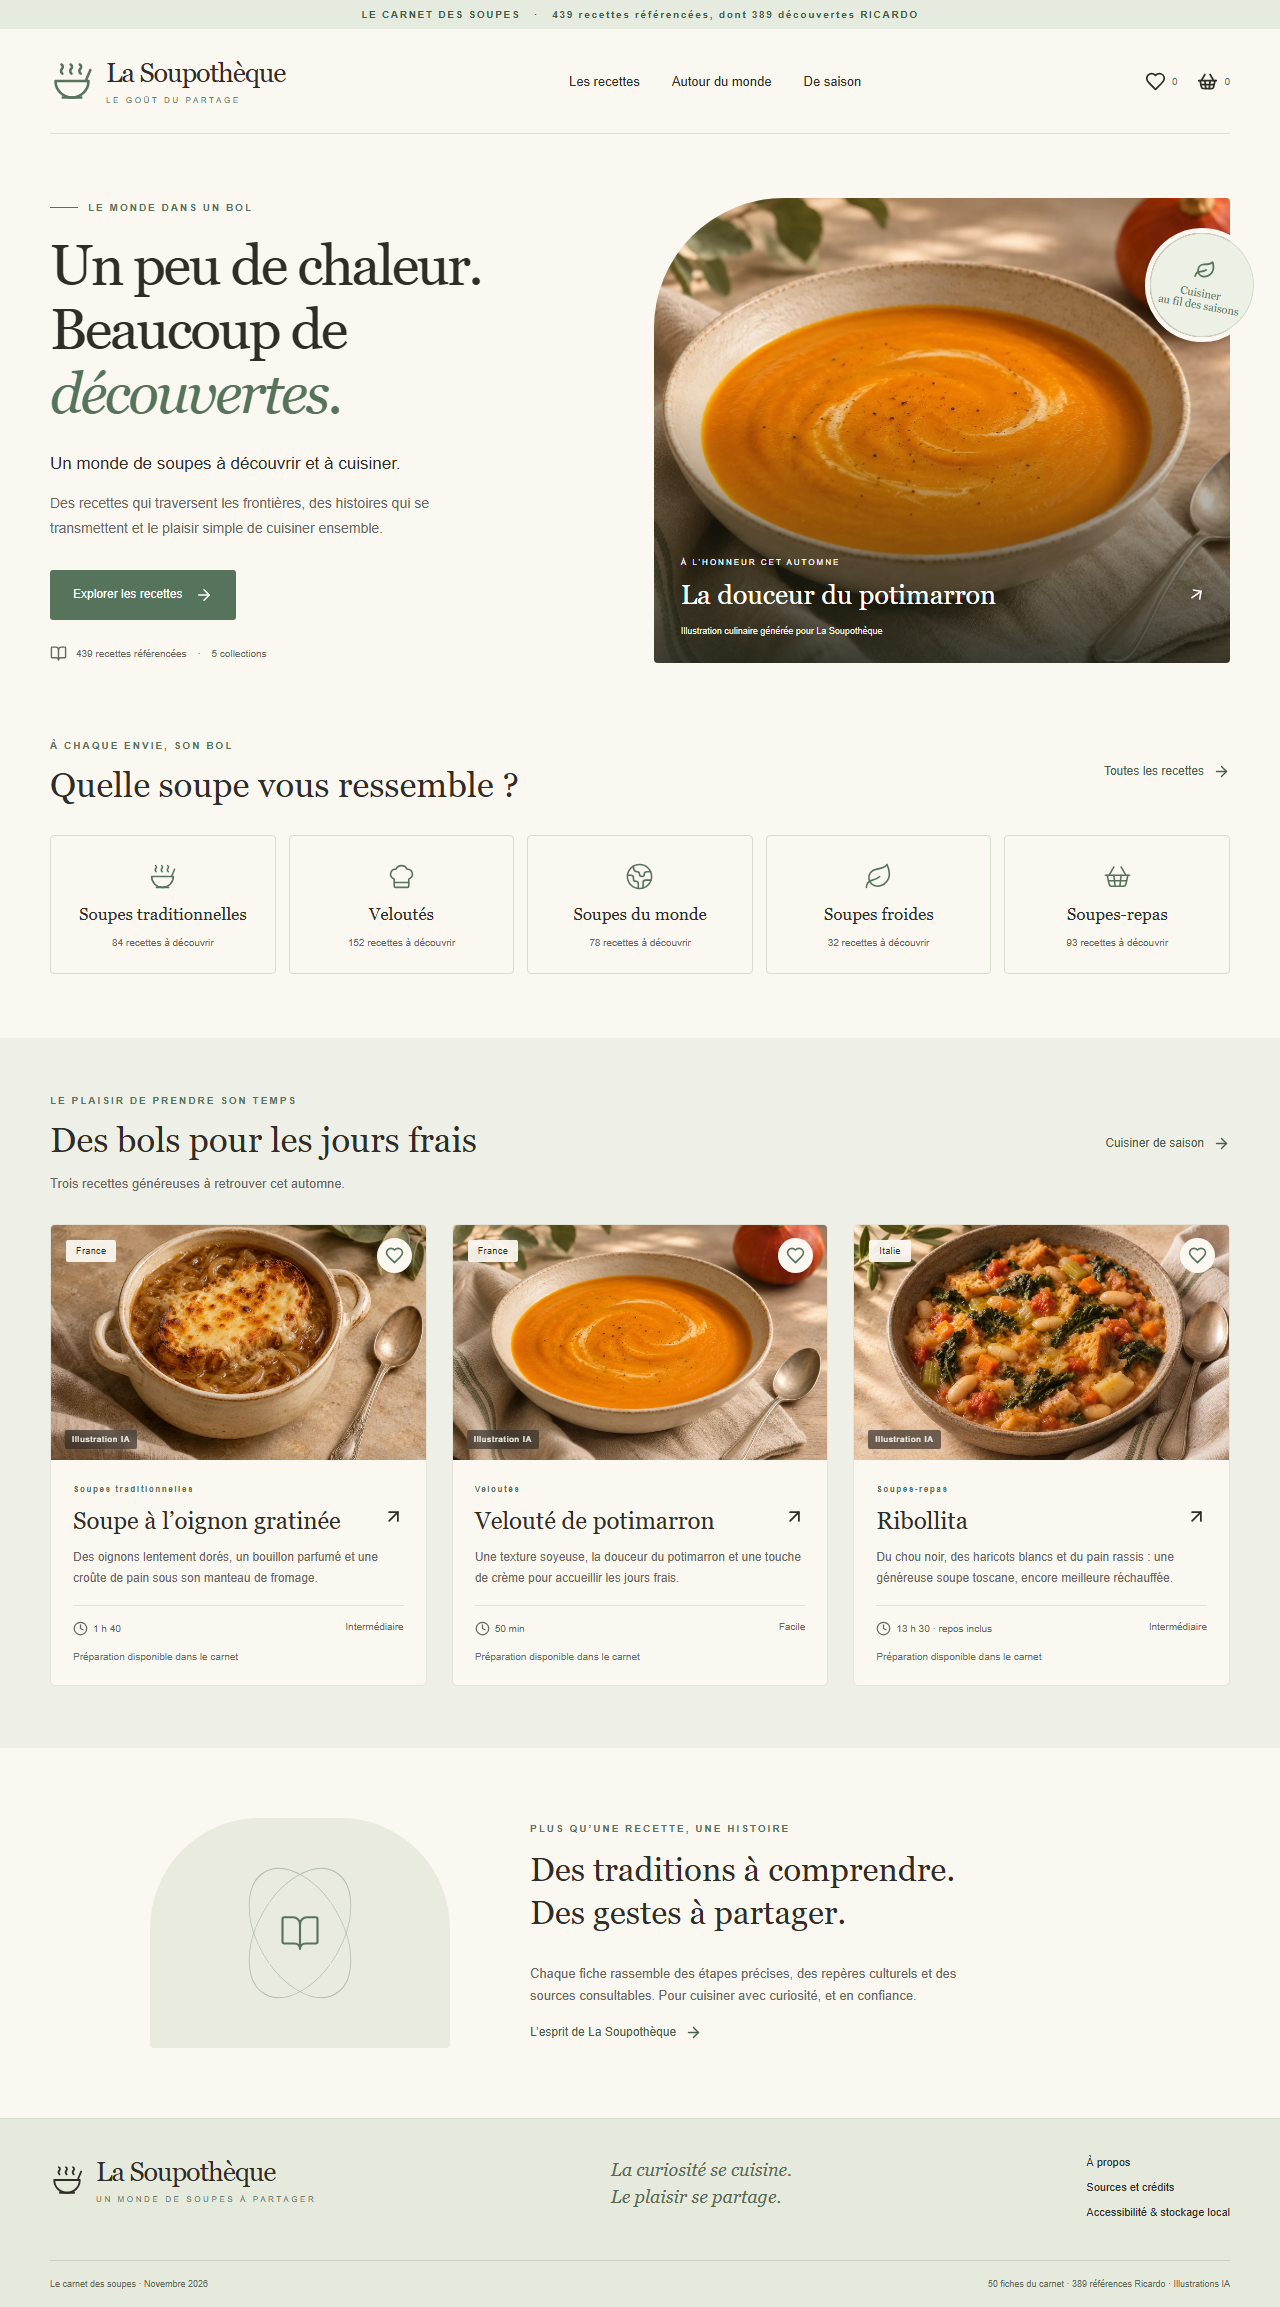
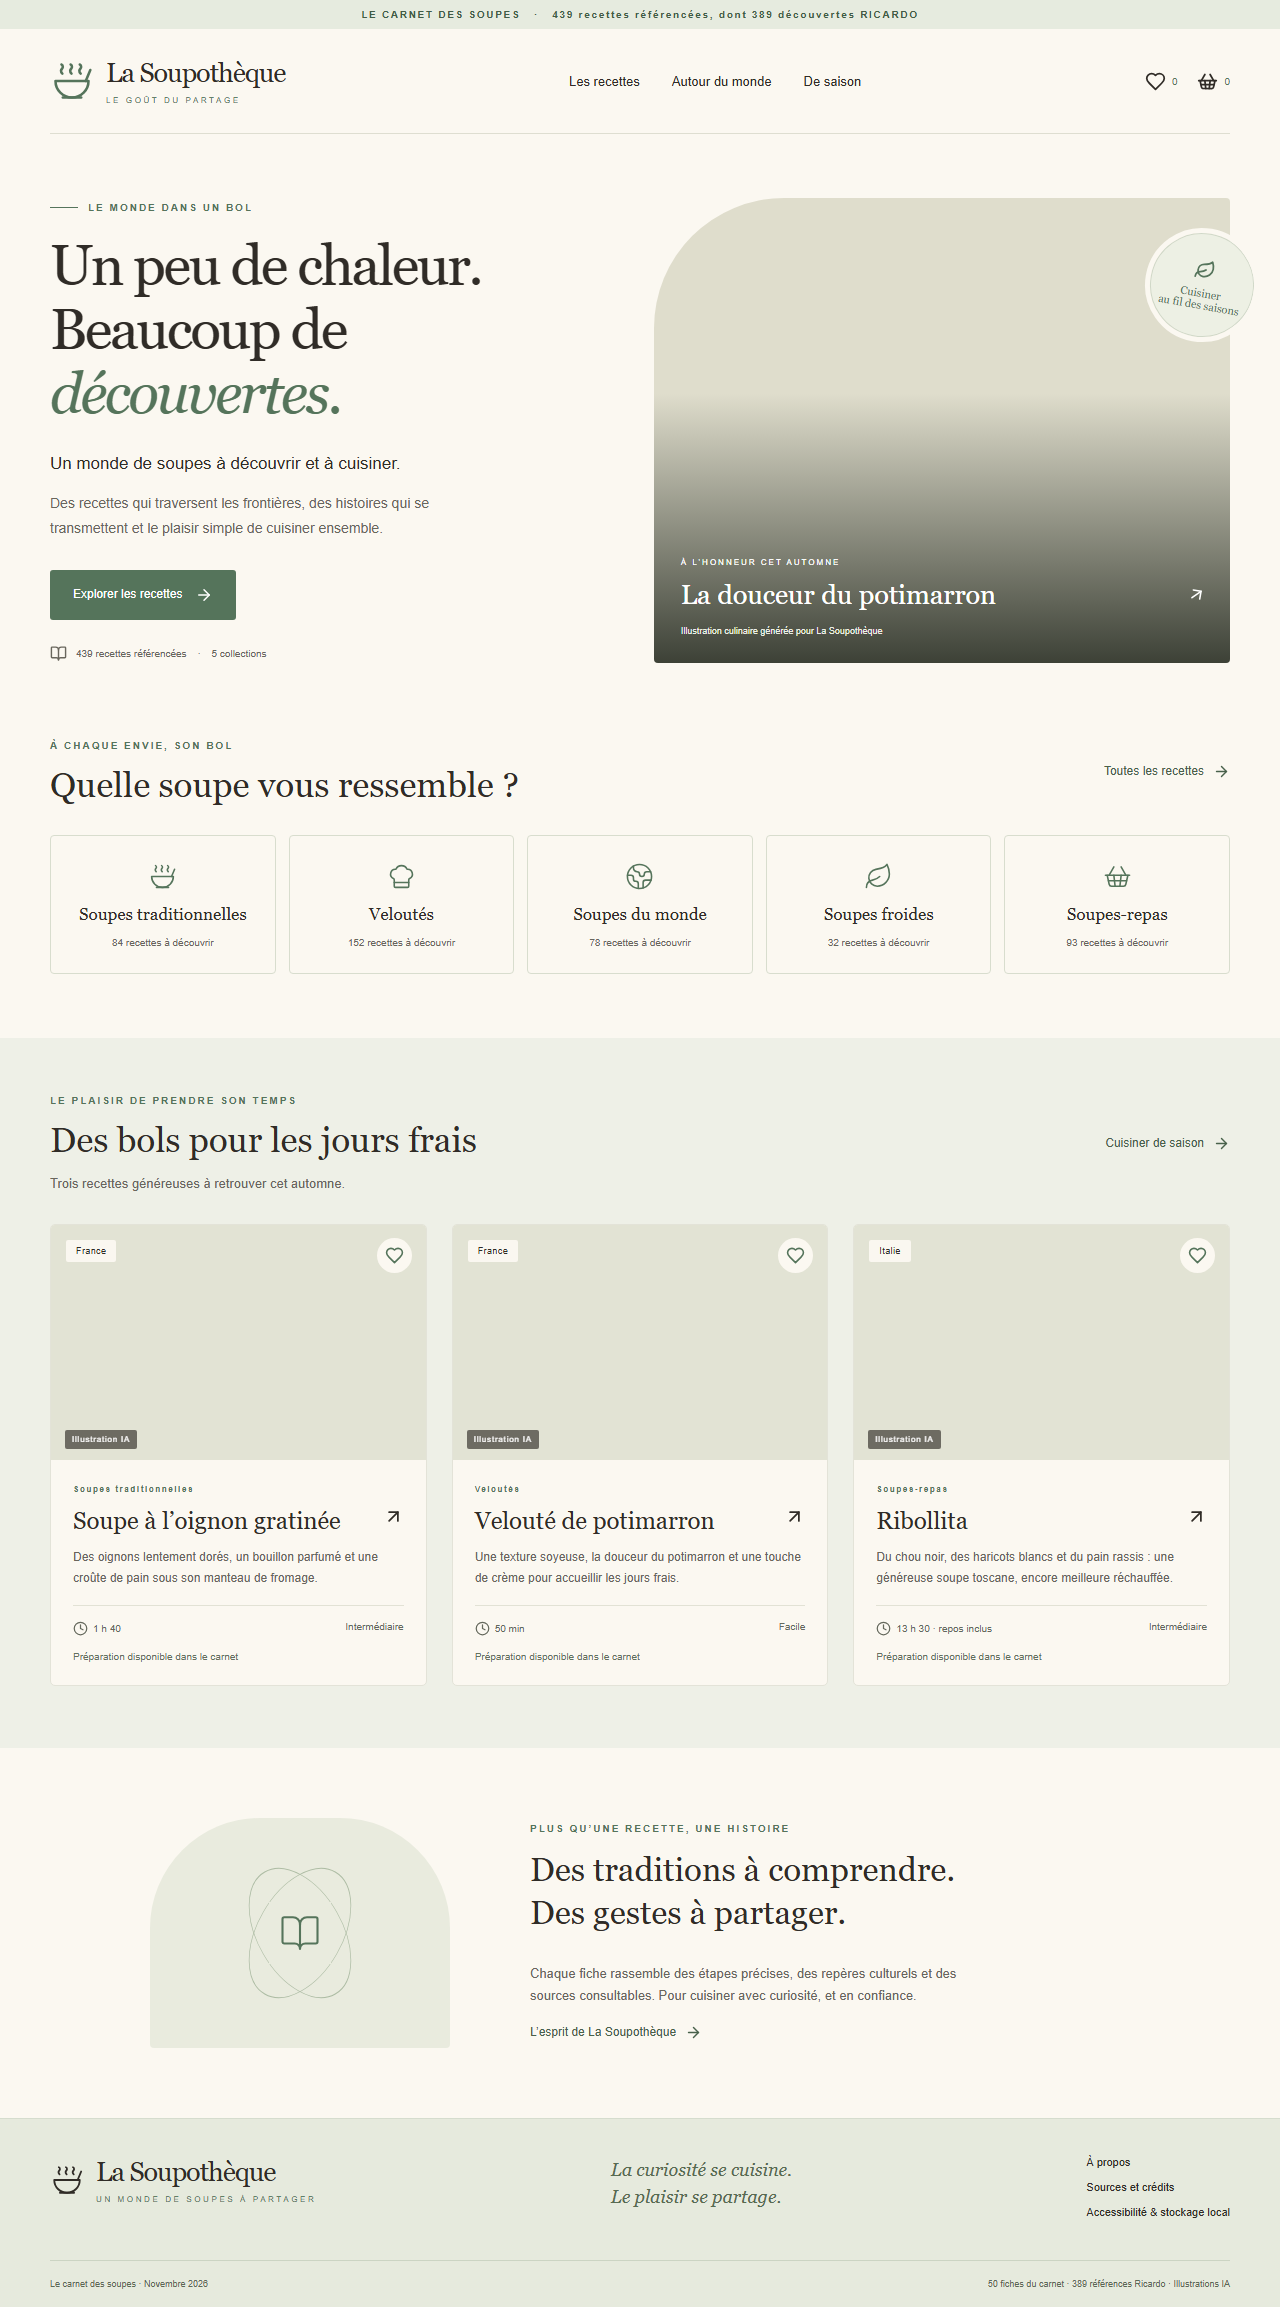
Document verified GitHub Pages publication and live browser checks

Changed region(s): [[0.0312, 0.5306, 0.9688, 0.6554], [0.5, 0.0624, 0.9688, 0.3121]]

diff --git a/docs/rapport-tests.md b/docs/rapport-tests.md
@@ -24,4 +24,10 @@ Les illustrations sont générées et certaines sont réutilisées pour plusieur
 
 Les parcours automatisés et le contrôle visuel ne constituent pas un audit RGAA/WCAG, un test avec lecteur d’écran ou une validation sur tous les navigateurs et appareils.
 
-Le workflow GitHub Pages est préparé mais n’a pas été exécuté dans un dépôt distant. Aucune publication publique n’est revendiquée.
+Le workflow GitHub Pages a été exécuté avec succès dans le dépôt public `didierthebault-web/soupotheque` le 13 novembre 2026 : installation, validation des données, onze tests unitaires, compilation et déploiement réussis.
+
+Site effectivement vérifié : https://didierthebault-web.github.io/soupotheque/
+
+Les trois parcours Playwright ont ensuite été exécutés contre cette adresse publique : catalogue et pagination des 389 références, filtres, portions, favoris, courses persistantes, sources, routes directes, chargement des 29 illustrations, navigation clavier et affichage mobile. Les trois parcours sont passés.
+
+Exécution de publication : https://github.com/didierthebault-web/soupotheque/actions/runs/43484549860

diff --git a/README.md b/README.md
@@ -2,6 +2,12 @@
 
 Un monde de soupes à découvrir et à cuisiner.
 
+**Site public :** https://didierthebault-web.github.io/soupotheque/
+
+**Dépôt :** https://github.com/didierthebault-web/soupotheque
+
+Publication GitHub Pages et parcours du site public vérifiés le 13 novembre 2026. Les trois tests fonctionnels passent aussi contre cette adresse publique.
+
 Application française en React, TypeScript et Vite. Le carnet conserve ses données et illustrations localement. Les favoris et la liste de courses restent dans le navigateur, sans compte.
 
 ## Corpus et transparence
@@ -67,4 +73,3 @@ Voir `docs/maintenance.md`. Ne pas modifier directement la copie compacte de `pu
 Le chemin Vite `/soupotheque/` et le routage par fragment sont compatibles avec GitHub Pages. Le workflow de publication se déclenche manuellement. Aucun dépôt public ni déploiement n’est créé automatiquement par l’import ou les tests.
 
 Le site ne revendique aucune conformité RGAA complète. Les contrôles réalisés et leurs limites sont décrits dans `docs/rapport-tests.md`.
-

diff --git a/docs/direction-artistique.md b/docs/direction-artistique.md
@@ -25,5 +25,3 @@ Les prompts complets des premières familles et les chemins des créations sont 
 Les créations sont converties en WebP de 1 400 pixels de largeur. Le recadrage responsive conserve le bol au centre. Elles ne constituent pas la preuve d’un plat réellement préparé ou d’une recette testée. Les visuels de collection sont réutilisés et signalés : une illustration ne certifie pas la composition d’une fiche. Aucune image générée n’est attribuée à Ricardo ou à un photographe.
 
 Les cinq photographies initiales inutilisées sont archivées dans docs/archived-photos, avec leurs notices de licence dans docs/photo-metadata. Elles ne font plus partie des fichiers publics distribués avec le site.
-
-
